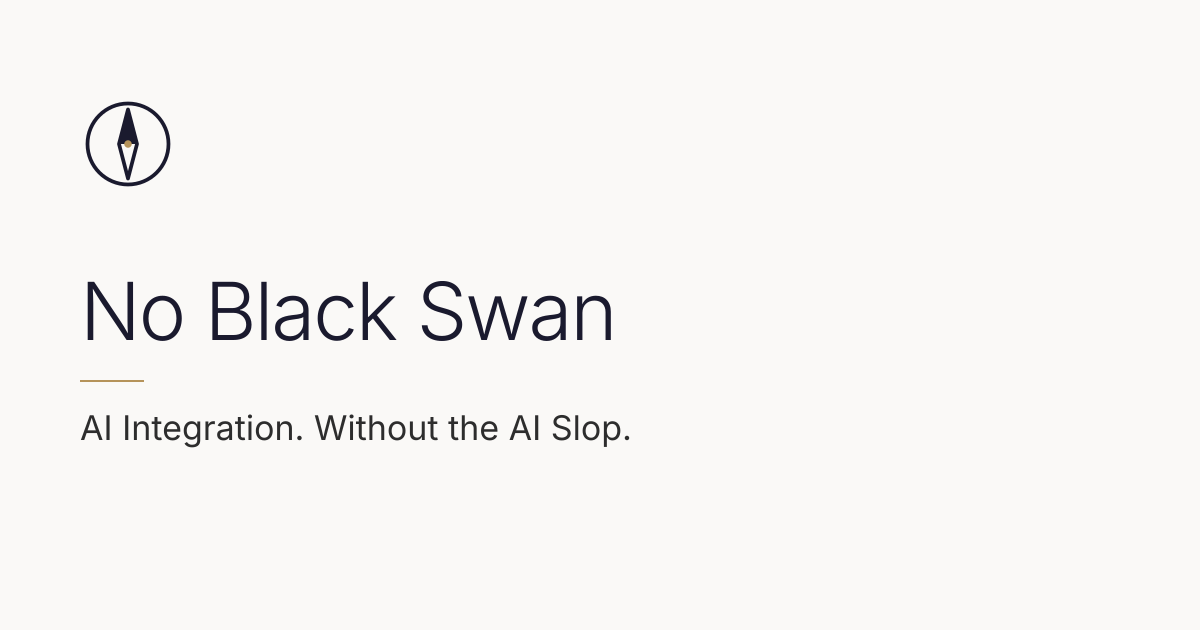
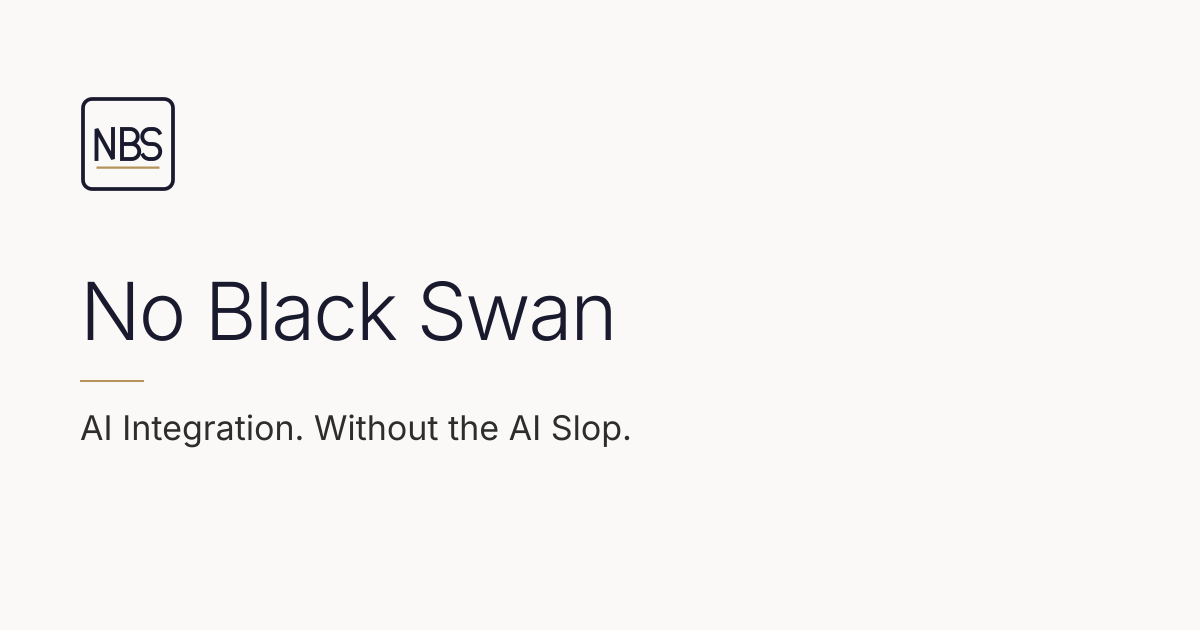
Rename How It Works to The Process; switch to NBS monogram
Claude-Session: https://claude.ai/code/session_01E4eAyWivfgttdKUwzMvvDb

Changed region(s): [[0.0617, 0.1508, 0.1542, 0.3016]]

diff --git a/README.md b/README.md
@@ -4,6 +4,6 @@ Public marketing site for noblackswan.com (Astro, static). Articles are publishe
 
 - `npm install` then `npm run dev` (from the repo root)
 - `npm run build` builds and runs the SEO audit
-- Brand mark: `site/src/assets/brand/mark.svg` (alternative in `site/src/assets/brand/options/`). Favicon, `public/logo.png` and `public/og-default.png` are generated from it.
+- Brand mark: `site/src/assets/brand/mark.svg` (NBS monogram; the compass alternative is in `site/src/assets/brand/options/`). Favicon, `public/logo.png` and `public/og-default.png` are generated from it.
 
 Pending: Privacy and Terms pages (add `site/src/legal/*.md`, the two pages, and the footer links when the copy is ready); company LinkedIn for `SAME_AS`; topic hubs in `site/src/lib/topics.ts`.
